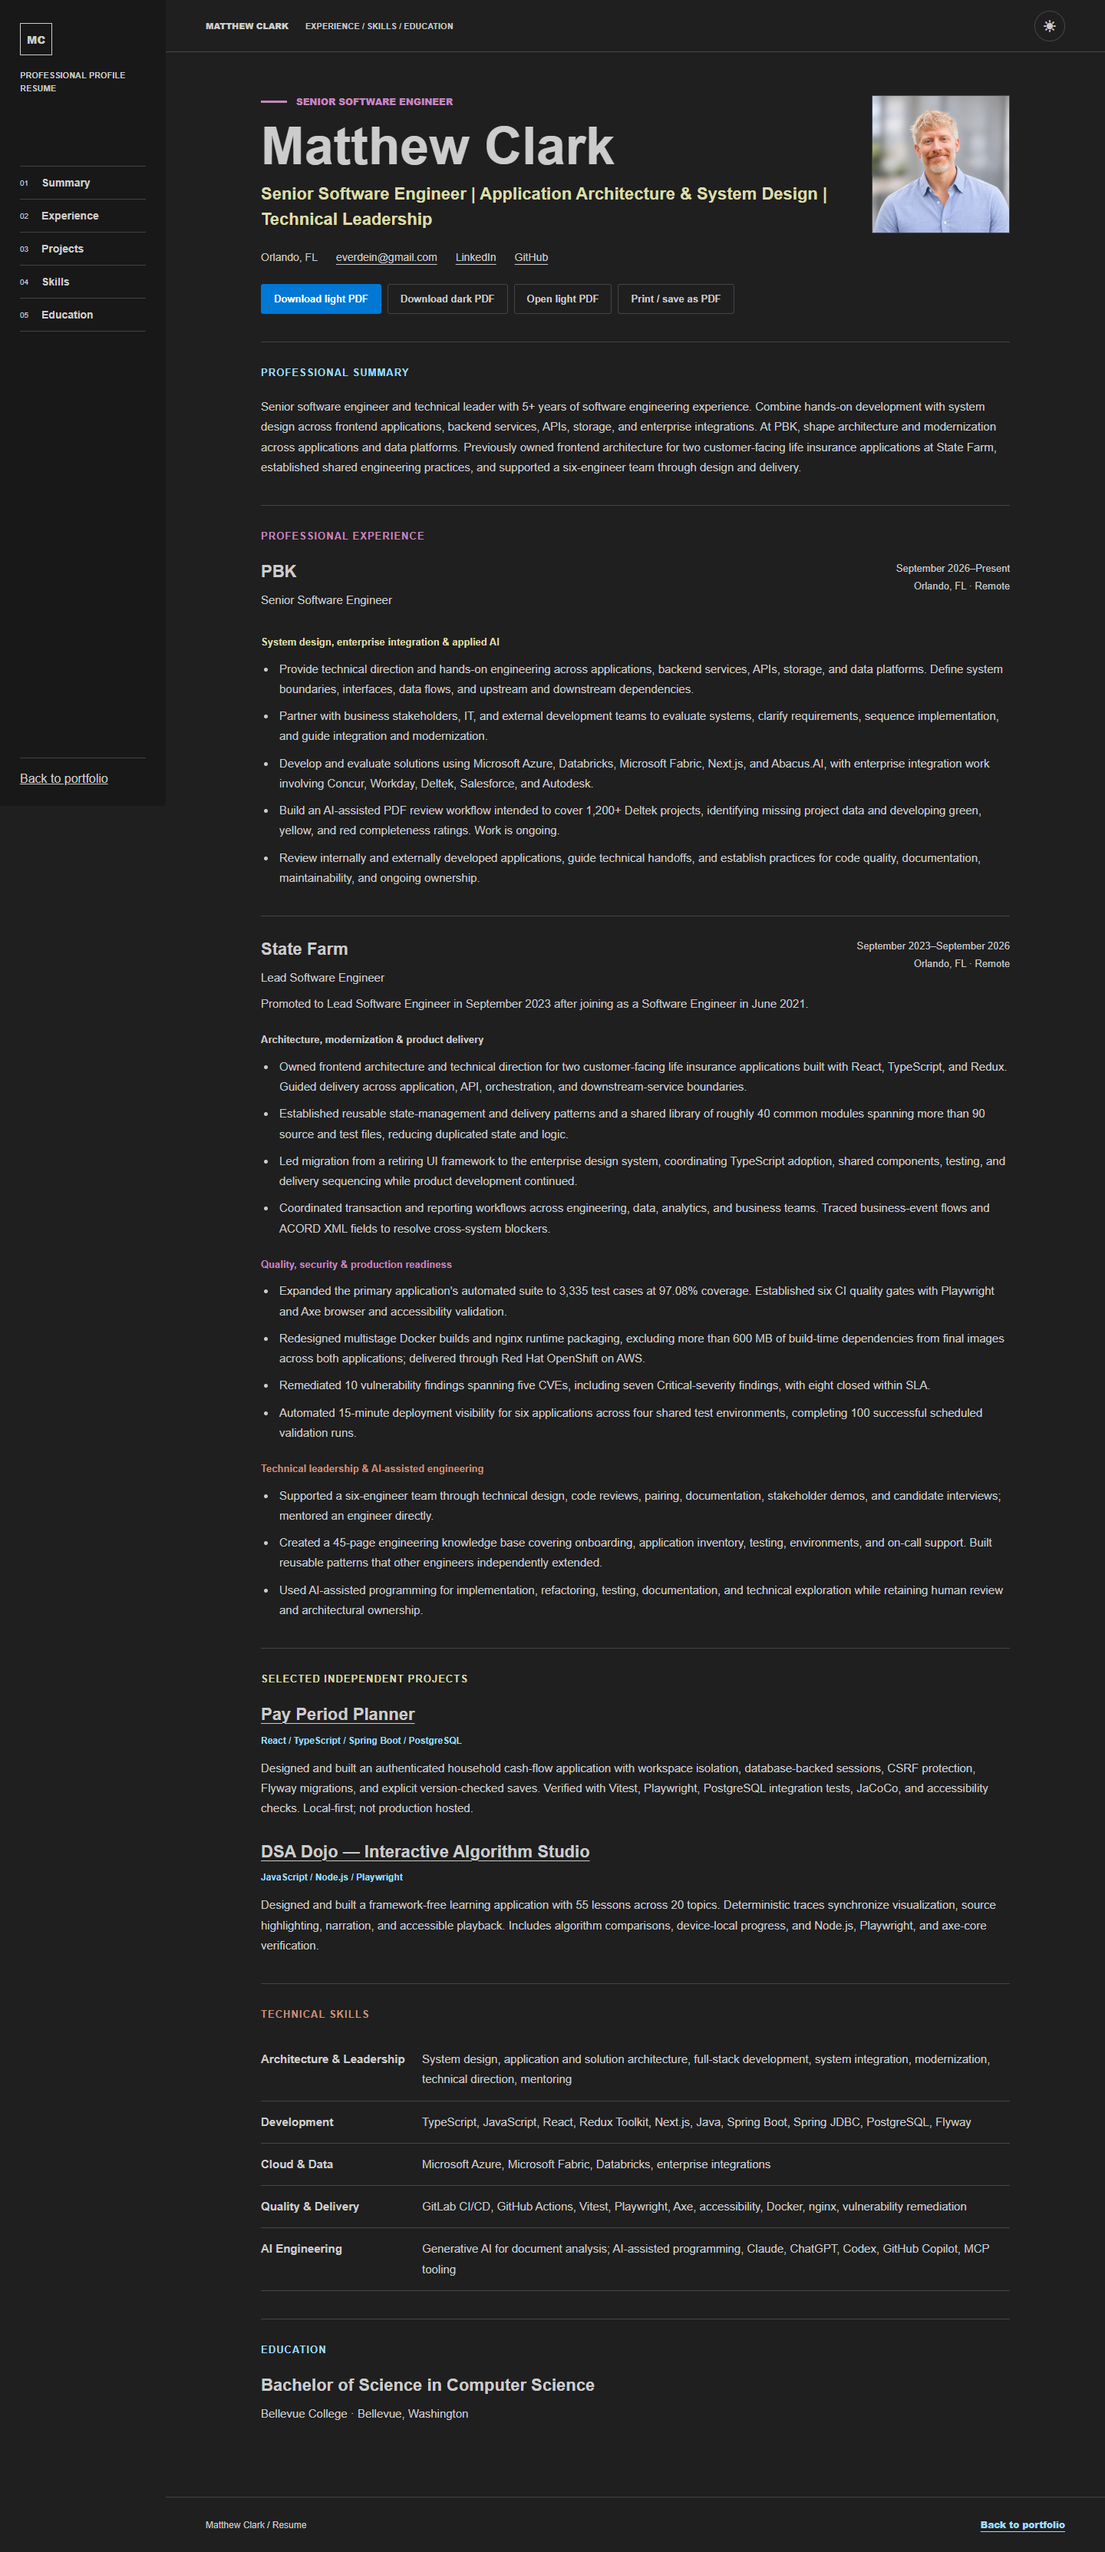
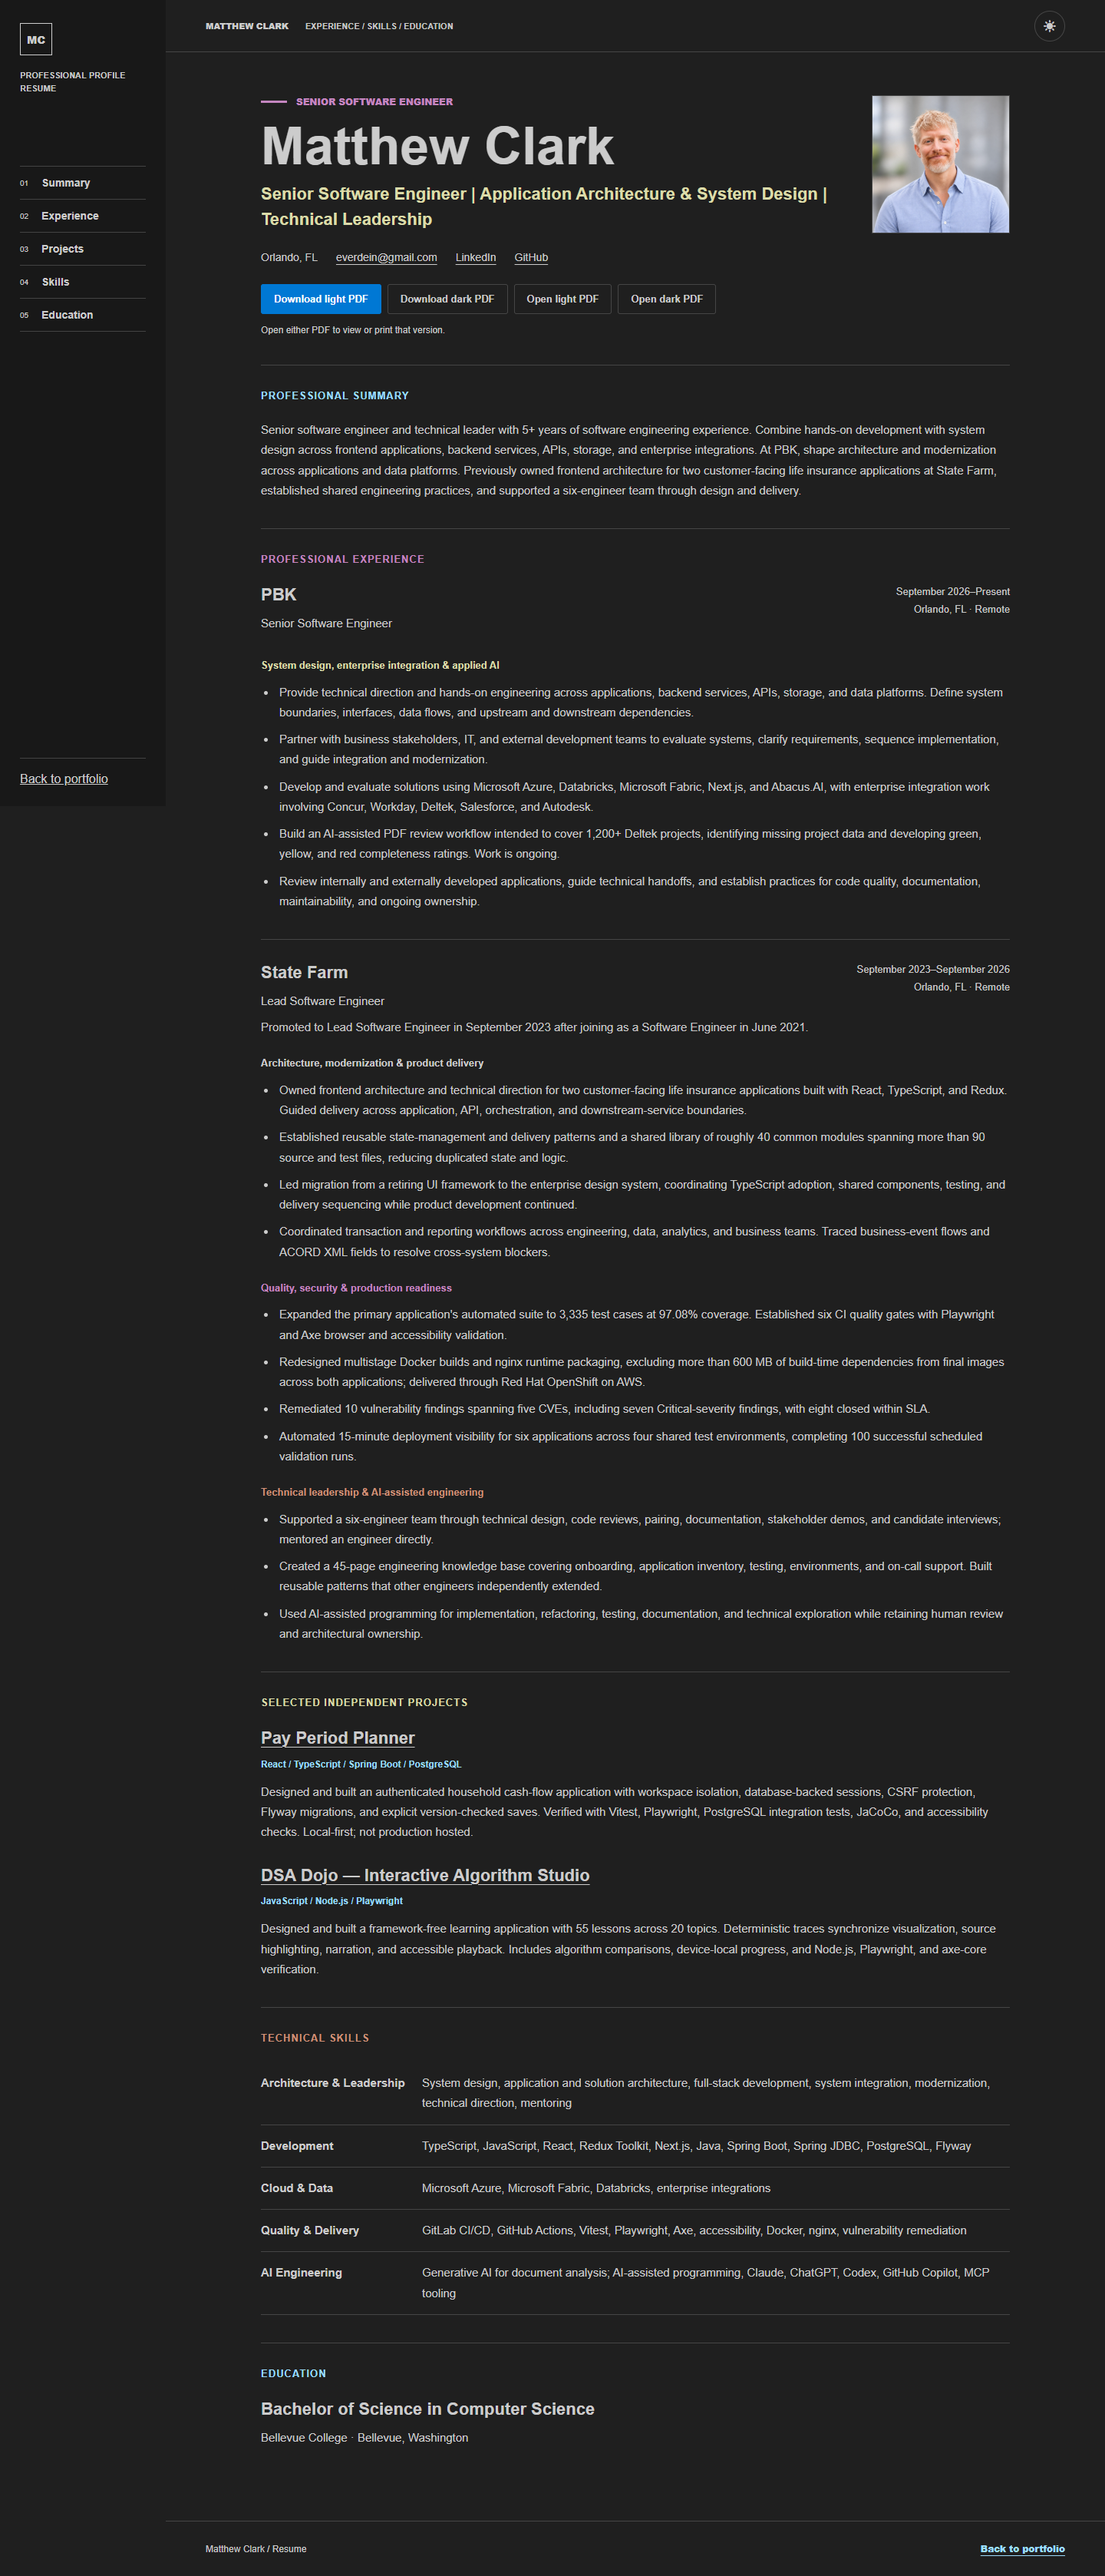
Pair each resume PDF with explicit open and download actions (#49)

diff --git a/e2e/resume.spec.ts b/e2e/resume.spec.ts
@@ -14,21 +14,35 @@ test("resume supports themes, narrow screens, PDF access and printing", async ({
   await expect(page.getByRole("heading", { level: 1 })).toHaveText(
     "Matthew Clark",
   );
-  const download = page.getByRole("link", {
-    name: "Download light PDF",
-    exact: true,
-  });
-  await expect(download).toHaveAttribute("download", "");
-  const pdf = await request.get((await download.getAttribute("href"))!);
-  expect(pdf.ok()).toBe(true);
-  expect(pdf.headers()["content-type"]).toContain("application/pdf");
-  const darkPdf = await request.get(
-    (await page
-      .getByRole("link", { name: "Download dark PDF", exact: true })
-      .getAttribute("href"))!,
-  );
-  expect(darkPdf.ok()).toBe(true);
-  expect(darkPdf.headers()["content-type"]).toContain("application/pdf");
+  for (const theme of ["light", "dark"]) {
+    const download = page.getByRole("link", {
+      name: `Download ${theme} PDF`,
+      exact: true,
+    });
+    const open = page.getByRole("link", {
+      name: `Open ${theme} PDF (opens in a new tab)`,
+      exact: true,
+    });
+    const href = (await download.getAttribute("href"))!;
+    await expect(download).toHaveAttribute("download", "");
+    await expect(open).toHaveAttribute("href", href);
+    await expect(open).toHaveAttribute("target", "_blank");
+    await expect(open).not.toHaveAttribute("download");
+    const pdf = await request.get(href);
+    expect(pdf.ok()).toBe(true);
+    expect(pdf.headers()["content-type"]).toContain("application/pdf");
+    expect((await pdf.body()).subarray(0, 5).toString()).toBe("%PDF-");
+    const result = page.waitForEvent("download");
+    await download.click();
+    expect((await result).suggestedFilename()).toBe(
+      theme === "light"
+        ? "matthew-clark-resume.pdf"
+        : "matthew-clark-resume-dark.pdf",
+    );
+  }
+  await expect(
+    page.getByRole("button", { name: "Print / save as PDF", exact: true }),
+  ).toHaveCount(0);
   await expect(page.locator("html")).toHaveAttribute("data-theme", "dark");
   await page.getByRole("button", { name: /switch to light/i }).click();
   await expect(page.locator("html")).toHaveAttribute("data-theme", "light");

diff --git a/app/resume/page.tsx b/app/resume/page.tsx
@@ -2,7 +2,6 @@ import type { Metadata } from "next";
 import Image from "next/image";
 import { ExternalLink } from "../ExternalLink";
 import { ThemeToggle } from "../ThemeToggle";
-import { PrintResume } from "./PrintResume";
 import content from "./content.json";
 import "./resume.css";
 
@@ -133,8 +132,13 @@ export default function Resume() {
               <ExternalLink href={`${basePath}/matthew-clark-resume.pdf`}>
                 Open light PDF
               </ExternalLink>
-              <PrintResume />
+              <ExternalLink href={`${basePath}/matthew-clark-resume-dark.pdf`}>
+                Open dark PDF
+              </ExternalLink>
             </div>
+            <p className="resume-pdf-note">
+              Open either PDF to view or print that version.
+            </p>
           </header>
           <section
             id="summary"

diff --git a/app/resume/resume.css b/app/resume/resume.css
@@ -65,6 +65,12 @@
 .resume-actions > :hover {
   border-color: var(--focus);
 }
+.resume-pdf-note {
+  margin: 12px 0 0;
+  color: var(--ink-soft);
+  font-size: 12px;
+  line-height: 1.5;
+}
 .resume-section {
   padding-top: 32px;
   margin-top: 36px;
@@ -215,6 +221,7 @@ html[data-theme="dark"] .resume-experience-group:nth-of-type(4) h4 {
   .resume-canvas .rail,
   .resume-canvas .topbar,
   .resume-actions,
+  .resume-pdf-note,
   .resume-canvas footer,
   .skip-link {
     display: none !important;

diff --git a/docs/resume.md b/docs/resume.md
@@ -25,5 +25,9 @@ flattening the native structure. Export each version, compare extracted text
 with the source export, and render and inspect every page before replacing files.
 The editable source currently retains the charcoal treatment.
 
+Each PDF has an explicit Download link and an Open link. Open links launch the
+same exported PDF in a new tab, where the browser PDF viewer provides printing.
+There is no webpage-print button that could create a third resume variant.
+
 Keep the stable light-PDF filename for existing links. Public resume navigation
 and profile cards should link to `/resume/` so both downloads stay discoverable.
